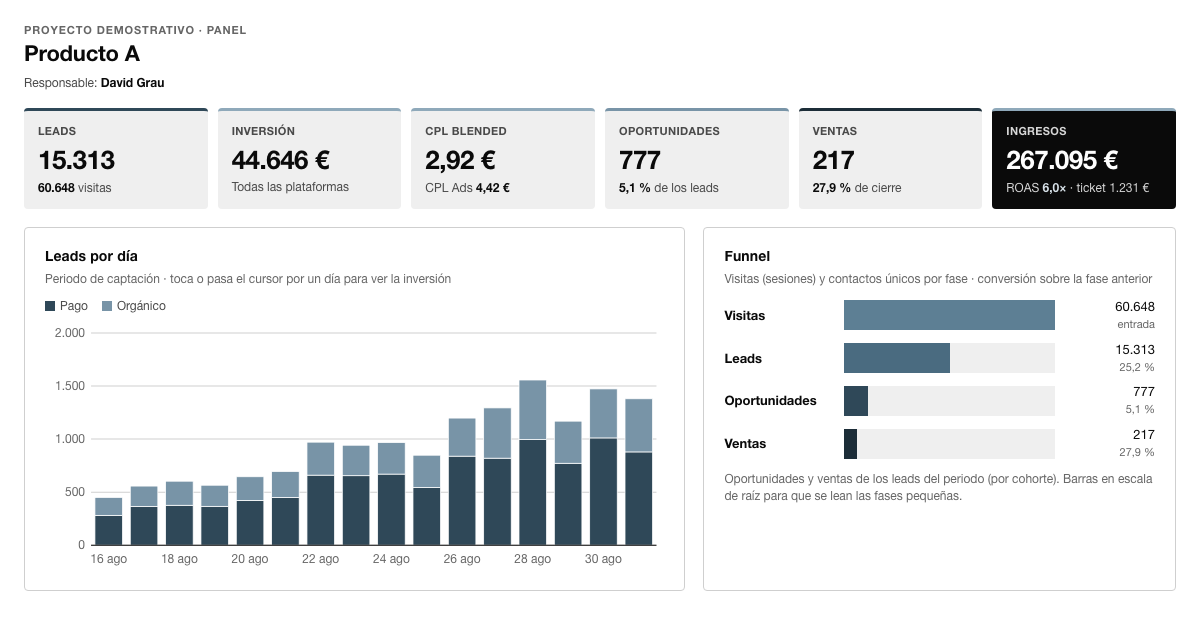
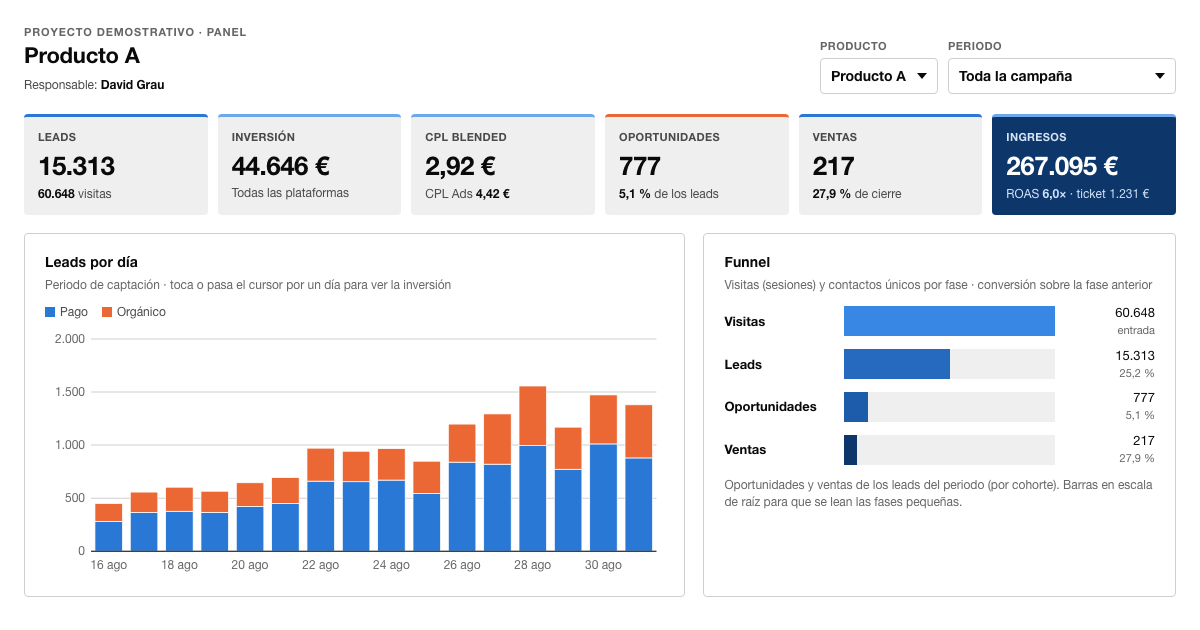
Paleta de color

diff --git a/index.html b/index.html
@@ -30,14 +30,14 @@
     --ink:#0a0a0a;
     --ink-2:#4a4a4a;
     --ink-3:#666666;            /* ≥ 4,5:1 sobre blanco, --soft y --softer */
-    /* escala única gris azulado, de claro a oscuro: s1 → s6 */
-    --s1:#d6e0e7; --s2:#b9c8d3; --s3:#8fa9ba; --s4:#5d7f94; --s45:#4a6b80; --s5:#2f4858; --s6:#1c2d38;
-    /* series de datos: ≥ 3:1 sobre blanco y distinguibles entre sí */
-    --c1:var(--s5);  --c1s:#dfe6eb;
-    --c2:#7894a7;    --c2s:#e8eef2;
-    --c3:var(--s6);  --c3s:#dbe2e7;
-    --c4:var(--s45); --c4s:#e3eaef;
-    --c5:var(--s3);  --c5s:#eef2f5;
+    /* escala ordinal azul, de claro a oscuro: s1 → s6 (validada: monótona, un solo tono) */
+    --s1:#cde2fb; --s2:#9ec5f4; --s3:#6da7ec; --s4:#3987e5; --s45:#256abf; --s5:#1c5cab; --s6:#0d366b;
+    /* series: azul + naranja, el par más robusto con daltonismo (ΔE 24,7) y ≥ 3:1 sobre blanco */
+    --c1:#2a78d6;    --c1s:#e3eefb;
+    --c2:#eb6834;    --c2s:#fde8df;  --c2t:#9a3c15;   /* texto naranja sobre su fondo: 5,9:1 */
+    --c3:#2a78d6;    --c3s:#e3eefb;
+    --c4:var(--s45); --c4s:#e3eefb;
+    --c5:var(--s3);  --c5s:#eef4fc;
     --r:4px;
     --font: "Helvetica Neue", Helvetica, Arial, system-ui, sans-serif;
     --mono: ui-monospace, "SF Mono", Menlo, Consolas, monospace;
@@ -51,7 +51,7 @@
   @media (max-width:640px){.wrap{padding:0 16px}}
 
   header.top .wrap{display:flex;align-items:stretch;min-height:120px}
-  .top .title{background:var(--block);display:flex;align-items:center;padding:24px 32px;flex:0 0 auto}
+  .top .title{background:var(--s6);color:#fff;display:flex;align-items:center;padding:24px 32px;flex:0 0 auto}
   .top h1{margin:0;font-size:30px;font-weight:800;letter-spacing:-.02em;line-height:1.05}
   .top .lede{padding:22px 28px;font-size:13px;color:var(--ink-2);display:flex;flex-direction:column;justify-content:center}
   .top .lede b{color:var(--ink);font-size:12px;letter-spacing:.02em}
@@ -61,7 +61,7 @@
   .top .links{margin-top:10px;display:flex;flex-wrap:wrap;gap:6px}
   .top .links a{font-size:12px;font-weight:700;color:var(--ink);text-decoration:none;border:1px solid var(--line);border-radius:var(--r);padding:4px 10px}
   .top .links a:hover{border-color:var(--ink)}
-  .top .links a.main{background:var(--ink);color:#fff;border-color:var(--ink)}
+  .top .links a.main{background:var(--s5);color:#fff;border-color:var(--s5)}
   footer a{color:var(--ink-2)}
   .stripe{display:flex;height:4px}
   .stripe i{flex:1}
@@ -97,7 +97,7 @@
 
   /* ---------- PARTE 1 ---------- */
   .flow-bar{display:flex;align-items:center;gap:12px;margin-bottom:12px;flex-wrap:wrap}
-  .btn{background:var(--ink);color:#fff;border:0;border-radius:var(--r);padding:9px 16px;font-weight:700;font-size:13px}
+  .btn{background:var(--s5);color:#fff;border:0;border-radius:var(--r);padding:9px 16px;font-weight:700;font-size:13px}
   .btn.ghost{background:var(--soft);color:var(--ink)}
   .hint{font-size:12px;color:var(--ink-3)}
 
@@ -110,8 +110,8 @@
   .node .t{font-size:15px;font-weight:800;line-height:1.15}
   .node .d{font-size:12px;color:var(--ink-2);margin-top:auto}
   .node:hover{background:var(--accs)}
-  .node[aria-current="step"]{background:var(--ink);color:#fff}
-  .node[aria-current="step"] .d,.node[aria-current="step"] .n{color:#d6d6d6}
+  .node[aria-current="step"]{background:var(--s6);color:#fff}
+  .node[aria-current="step"] .d,.node[aria-current="step"] .n{color:#d6e4f5}
   .node.pulse{animation:pulse .6s ease}
   @keyframes pulse{0%{box-shadow:0 0 0 0 rgba(0,0,0,.35)}100%{box-shadow:0 0 0 10px rgba(0,0,0,0)}}
   @media (max-width:1060px){
@@ -216,8 +216,8 @@
   @media (max-width:520px){.kpi .v{font-size:22px}}
   .kpi .x{font-size:12px;color:var(--ink-2)}
   .kpi .x b{color:var(--ink)}
-  .kpi.dark{background:var(--ink);color:#fff;border-top-color:var(--s3)}
-  .kpi.dark .l,.kpi.dark .x{color:#d6d6d6}.kpi.dark .x b{color:var(--s1)}
+  .kpi.dark{background:var(--s6);color:#fff;border-top-color:var(--s3)}
+  .kpi.dark .l,.kpi.dark .x{color:#d6e4f5}.kpi.dark .x b{color:var(--s1)}
   .kpi[data-tip]{cursor:help}
 
   .insight{background:var(--softer);border-left:3px solid var(--s45);padding:10px 14px;margin:0 0 18px;font-size:13px;color:var(--ink-2)}
@@ -262,7 +262,7 @@
   .dot{display:inline-block;width:9px;height:9px;border-radius:50%;margin-right:7px;vertical-align:0}
   .tag{display:inline-block;font-size:11px;font-weight:700;padding:1px 7px;border-radius:2px}
   .tag.pago{background:var(--c1s);color:var(--s5)}
-  .tag.org{background:var(--c2s);color:var(--s45)}
+  .tag.org{background:var(--c2s);color:var(--c2t)}
   .seg{display:inline-flex;background:var(--soft);border-radius:var(--r);padding:3px;gap:2px}
   .seg button{border:0;background:none;padding:5px 12px;font-size:12px;font-weight:700;border-radius:3px;color:var(--ink-2)}
   .seg button[aria-pressed="true"]{background:var(--bg);color:var(--ink);box-shadow:0 1px 2px rgba(0,0,0,.12)}
